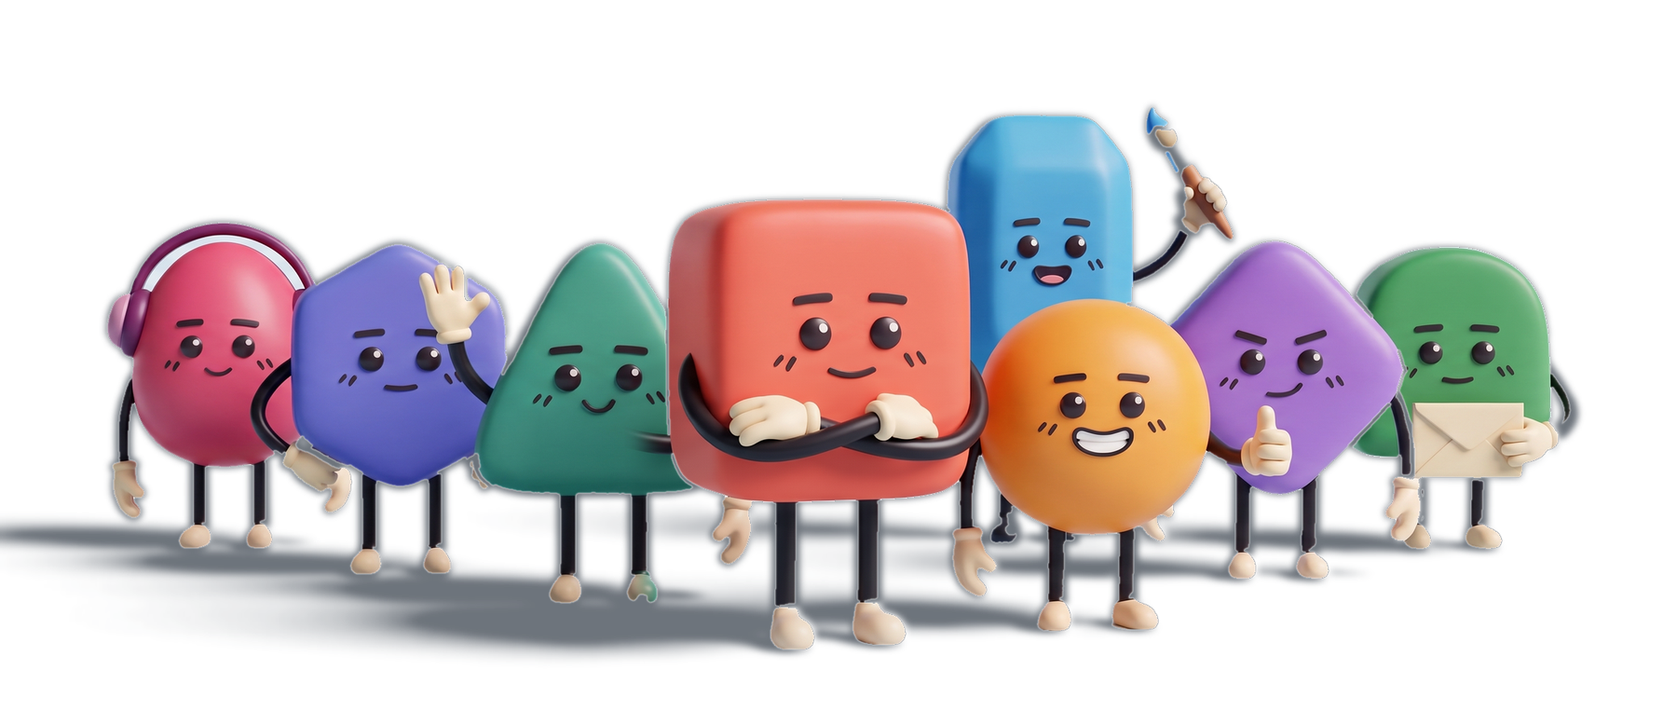
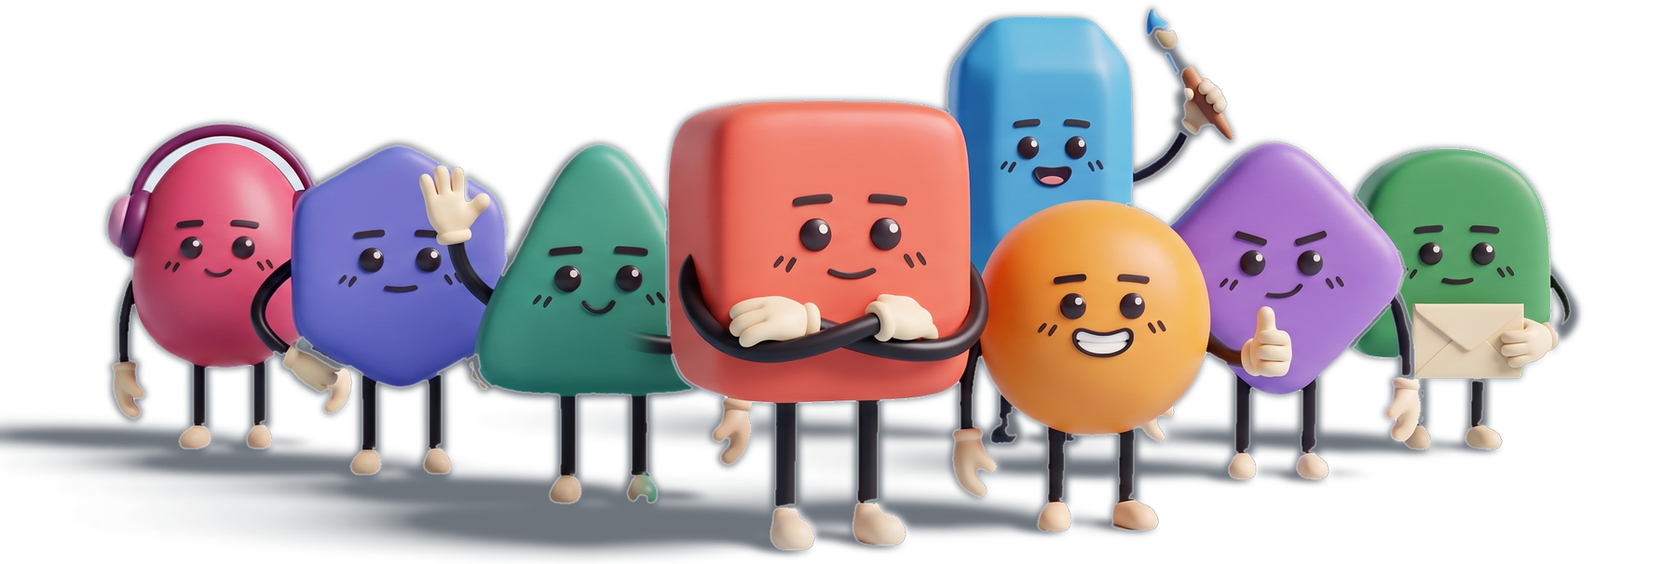
Update Crew Studios: new fonts, layout, idle dimming, name cards, active-room highlight

diff --git a/index.html b/index.html
@@ -3,40 +3,41 @@
 <title>Crew Studios</title>
 <link rel="preconnect" href="https://fonts.googleapis.com">
 <link rel="preconnect" href="https://fonts.gstatic.com" crossorigin>
-<link href="https://fonts.googleapis.com/css2?family=Bricolage+Grotesque:opsz,wght@12..96,600;12..96,800&family=Instrument+Sans:wght@400;500;600&family=JetBrains+Mono:wght@400;500&display=swap" rel="stylesheet">
+<link href="https://fonts.googleapis.com/css2?family=Caprasimo&family=DM+Sans:opsz,wght@9..40,400..700&display=swap" rel="stylesheet">
 <script src="https://cdnjs.cloudflare.com/ajax/libs/three.js/r128/three.min.js"></script>
 <style>
   :root{
     --page:#EEF2F5; --card:#FFFFFF; --line:#D3DCE4; --ink:#16202B; --muted:#5A6774;
     --accent:#1F5FBF; --stamp:rgba(31,95,191,.16); --stamp-ink:#1F5FBF; --tag:#E6ECF2;
-    --display:'Bricolage Grotesque', 'Arial Narrow', system-ui, sans-serif;
-    --sans:'Instrument Sans', system-ui, -apple-system, 'Segoe UI', sans-serif;
-    --mono:'JetBrains Mono', ui-monospace, Menlo, monospace;
+    --display:'Caprasimo', Georgia, 'Times New Roman', serif;   /* bold, big text */
+    --sans:'DM Sans', system-ui, -apple-system, 'Segoe UI', sans-serif;   /* body */
+    --mono:'DM Sans', system-ui, -apple-system, 'Segoe UI', sans-serif;   /* captions and labels */
   }
   [hidden]{ display:none !important; }
+  :root{ font-synthesis-weight:none; }
   body{ margin:0; background:var(--page); color:var(--ink); font-family:var(--sans); }
   .wrap{ max-width:1180px; margin:0 auto; padding-inline:16px; padding-block:28px 64px; }
   @media (min-width:760px){ .wrap{ padding-inline:40px; } }
 
   nav{ display:flex; align-items:center; justify-content:space-between; gap:16px; flex-wrap:wrap; padding-bottom:28px; border-bottom:1px solid var(--line); }
-  .mark{ display:flex; align-items:center; gap:10px; font-family:var(--display); font-weight:800; font-size:19px; letter-spacing:-.01em; }
+  .mark{ display:flex; align-items:center; gap:10px; font-family:var(--display); font-weight:800; font-size:19px; }
   .mark svg{ width:26px; height:26px; }
   nav a{ color:var(--accent); font-size:14px; font-weight:500; text-decoration:none; }
   nav a:hover, nav a:focus-visible{ text-decoration:underline; }
 
   .hero{ display:grid; grid-template-columns:minmax(0,1.6fr) minmax(0,1fr); gap:40px; padding-block:48px 40px; align-items:end; }
   .eyebrow{ font-family:var(--mono); font-size:12px; letter-spacing:.12em; text-transform:uppercase; color:var(--muted); }
-  h1{ font-family:var(--display); font-weight:800; font-size:clamp(34px,5.2vw,60px); line-height:1.02; letter-spacing:-.025em; margin:12px 0 16px; text-wrap:balance; }
+  h1{ font-family:var(--display); font-weight:800; font-size:clamp(34px,5.2vw,60px); line-height:1.02; margin:12px 0 16px; text-wrap:balance; }
   .lede{ font-size:17px; line-height:1.55; color:var(--muted); max-width:56ch; margin:0; }
   .facts{ display:grid; grid-template-columns:repeat(3,1fr); border:1px solid var(--line); border-radius:12px; background:var(--card); }
   .facts div{ padding:16px 14px; display:flex; flex-direction:column; gap:4px; }
   .facts div + div{ border-left:1px solid var(--line); }
-  .facts b{ font-family:var(--display); font-size:30px; font-weight:800; letter-spacing:-.02em; font-variant-numeric:tabular-nums; }
+  .facts b{ font-family:var(--display); font-size:30px; font-weight:800; font-variant-numeric:tabular-nums; }
   .facts span{ font-size:12.5px; color:var(--muted); }
   @media (max-width:820px){ .hero{ grid-template-columns:1fr; gap:28px; padding-block:36px 28px; } }
 
   .team-head{ display:flex; align-items:baseline; justify-content:space-between; gap:16px; flex-wrap:wrap; margin-bottom:18px; }
-  h2{ font-family:var(--display); font-weight:800; font-size:28px; letter-spacing:-.02em; margin:0; }
+  h2{ font-family:var(--display); font-weight:800; font-size:28px; margin:0; }
   .team-head p{ margin:6px 0 0; font-size:14px; color:var(--muted); }
   .team-head{ align-items:flex-end; }
   .viewtoggle{ display:inline-flex; padding:3px; border:1px solid var(--line); border-radius:999px; background:var(--card); }
@@ -60,7 +61,7 @@
   .stamp{ position:absolute; left:-12px; bottom:-12px; width:44px; height:44px; border-radius:50%; border:2px solid var(--stamp-ink); background:var(--stamp); color:var(--stamp-ink); display:flex; align-items:center; justify-content:center; font-family:var(--mono); font-size:11px; font-weight:500; transform:rotate(-14deg); }
   .info{ display:flex; flex-direction:column; gap:6px; min-width:0; }
   .id{ font-family:var(--mono); font-size:11px; letter-spacing:.06em; color:var(--muted); }
-  .info h3{ font-family:var(--display); font-weight:800; font-size:22px; letter-spacing:-.015em; margin:0; line-height:1.1; }
+  .info h3{ font-family:var(--display); font-weight:800; font-size:22px; margin:0; line-height:1.1; }
   .role{ font-size:13.5px; font-weight:600; color:var(--accent); }
   .bio{ font-size:13.5px; line-height:1.5; color:var(--muted); margin:2px 0 0; }
   .tag{ align-self:flex-start; font-family:var(--mono); font-size:10.5px; letter-spacing:.04em; color:var(--muted); background:var(--tag); border-radius:4px; padding:2px 6px; }
@@ -119,7 +120,7 @@
   .info-btn[aria-expanded="true"]{ background:#16202B; color:#FFFFFF; }
   .info-panel{ position:absolute; inset:0; z-index:2; border-radius:14px; background:var(--card);
     padding:28px 30px; display:flex; flex-direction:column; gap:10px; overflow:auto; animation:panelin .18s ease-out; }
-  .info-panel h4{ margin:0; font-family:var(--display); font-weight:800; font-size:22px; letter-spacing:-.015em; padding-right:40px; }
+  .info-panel h4{ margin:0; font-family:var(--display); font-weight:800; font-size:22px; padding-right:40px; }
   .info-panel p{ margin:0; font-size:15px; line-height:1.55; color:var(--muted); }
   @keyframes panelin{ from{ opacity:0; transform:translateY(4px); } to{ opacity:1; transform:none; } }
 
@@ -128,7 +129,7 @@
   .card.is-feature .photo{ width:100%; height:100%; min-height:240px; aspect-ratio:auto; }
   .card.is-feature .photo svg{ position:absolute; inset:5px; width:calc(100% - 10px); height:calc(100% - 10px); background:var(--photo-bg); }
   .card.is-feature .feat-name{ display:flex; flex-direction:column; align-items:center; gap:4px; }
-  .card.is-feature h3{ font-family:var(--display); font-weight:800; font-size:26px; letter-spacing:-.015em; margin:0; text-align:center; }
+  .card.is-feature h3{ font-family:var(--display); font-weight:800; font-size:26px; margin:0; text-align:center; }
 
   /* Segment: idle, breathing easy, arms loose */
   .idleg{ transform-box:fill-box; transform-origin:50% 100%; animation:breathe 3.4s ease-in-out infinite; }
@@ -257,7 +258,7 @@
   @keyframes flIn{ from{ opacity:0; transform:translateX(-24px); } }
   .fl-step{ display:flex; justify-content:space-between; align-items:center; font-family:var(--mono); font-size:11px; letter-spacing:.06em; text-transform:uppercase; color:#C2410C; }
   .fl-dots{ display:inline-flex; gap:4px; } .fl-dots i{ width:18px; height:4px; border-radius:2px; background:#E5E7EB; } .fl-dots i.on{ background:#F06E42; } .fl-dots i.done{ background:#0E2058; }
-  .fl-card h3{ font-family:var(--display); font-weight:800; font-size:19px; letter-spacing:-.01em; margin:6px 0 4px; line-height:1.15; }
+  .fl-card h3{ font-family:var(--display); font-weight:800; font-size:19px; margin:6px 0 4px; line-height:1.15; }
   .fl-sub{ font-size:13px; color:#5A6774; margin:0 0 10px; }
   .fl-units{ margin:0 0 10px; padding-left:22px; font-size:14px; line-height:1.55; }
   .fl-fix{ display:flex; flex-direction:column; gap:4px; margin-bottom:10px; } .fl-fix label{ font-size:12.5px; font-weight:600; }
@@ -302,7 +303,16 @@
   #studios .book-bar{ margin:0; flex-direction:column; align-items:flex-start; gap:6px; }
   #studios .team-head{ margin:0; }
   #studios .team-head h2{ font-size:26px; }
-  #studios .rooms{ margin:0; }
+  .fl-progrow{ display:flex; flex-direction:column; align-items:stretch; gap:8px; margin-top:10px; }
+  .fl-progrow .fl-prog{ margin-top:0; }
+  .fl-now{ display:flex; align-items:center; gap:6px; font-size:13px; color:#5A6774; min-width:0; }
+  .fl-now:empty{ display:none; }
+  .fl-now i{ width:9px; height:9px; border-radius:3px; flex:none; }
+  .fl-now b{ color:#16202B; font-weight:700; }
+  #studios .rooms{ margin:0; display:grid; grid-template-columns:repeat(5, minmax(0, 1fr)); gap:6px; }   /* nine chips in two rows */
+  #studios .rooms button{ justify-content:center; gap:6px; padding:6px 6px; font-size:13px; min-width:0; white-space:nowrap; }
+  #studios .rooms button i{ width:9px; height:9px; flex:none; }
+  .iso-turn{ display:none !important; }   /* rooms are rendered from one angle: no rotation */
   #studios .flow{ position:static; width:auto; overflow:visible; pointer-events:auto; }
   #studios #office{ height:100%; min-height:0; }
   #studios #office-canvas, #studios #office-canvas.overview{ height:100%; min-height:0; aspect-ratio:auto; }
@@ -326,7 +336,7 @@
   .minute-bubble.pop{ animation:bubblePop .35s cubic-bezier(.3,1.6,.5,1) both; }
   @keyframes bubblePop{ from{ transform:translate(-50%, -100%) scale(.4); opacity:0; } to{ transform:translate(-50%, -100%) scale(1); opacity:1; } }
   @media (prefers-reduced-motion: reduce){ .minute-bubble.pop{ animation:none; } }
-  .team-photo{ position:absolute; left:50%; top:41%; transform:translate(-50%, -50%); width:min(100%, calc(100cqh * 2.357)); aspect-ratio:2.357 / 1; }
+  .team-photo{ position:absolute; left:50%; top:41%; transform:translate(-50%, -50%); width:min(100%, calc(100cqh * 2.357)); aspect-ratio:2.97 / 1; }
   .team-photo img{ position:absolute; left:0; top:0; width:100%; height:100%; object-fit:contain; animation:teamIn .8s cubic-bezier(.2,.9,.25,1.1) both; }
   .team-spot{ position:absolute; transform:translateX(-50%); }
   .team-spot .champ-tip{ bottom:100%; }
@@ -336,6 +346,19 @@
   #landing.launch .team-photo img{ animation:teamOut .7s cubic-bezier(.5,0,.75,0) forwards; }
   @keyframes teamOut{ to{ opacity:0; transform:translateY(-14%) scale(.96); } }
   @media (prefers-reduced-motion: reduce){ .team-photo img{ animation:none !important; } }
+  /* ---- landing: bigger headline, crew right under it, upload box tucked under their feet ---- */
+  #landing .land-head{ max-width:1040px; }
+  #landing .land-head h1{ font-size:clamp(32px, min(7vh, 5.6vw), 68px); line-height:1.04; margin:4px 0 8px; }
+  #landing{ padding-bottom:112px; }   /* room for the upload box under the crew */
+  #landing .poster{ flex:none; height:auto; min-height:0; aspect-ratio:2.97 / 1; margin:6px 0 0; container-type:size; }   /* crew always full width */
+  #landing .poster-in{ position:absolute; inset:0; width:auto; transform:none; aspect-ratio:auto; top:0; left:0; }
+  #landing .team-photo{ top:0; transform:translateX(-50%); width:100%; }
+  #landing .upload-zone{ top:calc(100% - 22px); bottom:auto; }   /* just under the crew's feet */
+  @media (max-width:640px){ #landing .upload-zone{ top:calc(100% + 4px); } }
+  #landing{ padding-bottom:0; }
+  body.on-landing .wrap{ padding-top:14px; }
+  body.on-landing nav{ padding-bottom:14px; }
+  #landing .poster{ margin-inline:auto; width:100%; }
   #folio-room{ overflow:hidden; cursor:grab; touch-action:none; }
   #folio-room:active{ cursor:grabbing; }
   #folio-room video{ transform-origin:0 0; will-change:transform; user-select:none; -webkit-user-drag:none; pointer-events:none; }
@@ -389,7 +412,7 @@
     <div class="book-bar"><button type="button" class="linkbtn" id="back-up">&larr; Upload another book</button><span hidden>Working on <b id="book-name"></b></span></div>
     <div class="team-head">
       <div class="th-left">
-        <h2 id="team-title">Where the crew works</h2>
+        <h2 id="team-title">Your book, room by room</h2>
         <p id="view-hint">Listed in pipeline order. Hover a card for a reaction, or tap ⓘ to see what each one does.</p>
       </div>
       <div class="viewtoggle" role="group" aria-label="Choose a view">
@@ -402,7 +425,7 @@
     <aside class="flow" id="flow" hidden aria-live="polite">
       <div class="fl-head" id="flow-head"></div>
       <div id="flow-q"></div>
-      <div class="fl-list" id="flow-list"></div>
+      <div class="fl-list" id="flow-list" hidden></div>
     </aside>
    </div>
     <div id="office" hidden>
@@ -560,7 +583,7 @@
       '<g class="bubble">' +
         '<rect x="6" y="24" width="46" height="18" rx="9" fill="#FFFFFF" stroke="'+I+'" stroke-width="2.2"/>' +
         '<circle cx="46" cy="47" r="2.6" fill="#FFFFFF" stroke="'+I+'" stroke-width="1.8"/>' +
-        '<text x="29" y="36.6" text-anchor="middle" font-family="JetBrains Mono, monospace" font-size="9" font-weight="500" fill="'+I+'">one sec</text>' +
+        '<text x="29" y="36.6" text-anchor="middle" font-family="DM Sans, sans-serif" font-size="9" font-weight="500" fill="'+I+'">one sec</text>' +
       '</g>' +
       '<g class="finger">' +
         '<path class="ink" stroke-width="3.2" d="M 131 172 C 136 150 135 130 129 114 M 120 172 C 124 152 124 132 119 116"/>' +
@@ -657,8 +680,8 @@
       '<rect x="4" y="22" width="84" height="30" rx="10" fill="#FFFFFF" stroke="'+I+'" stroke-width="2.4"/>' +
       '<path d="M 60 51 L 70 60 L 68 51" fill="#FFFFFF" stroke="'+I+'" stroke-width="2.4" stroke-linejoin="round"/>' +
       '<rect x="58" y="49" width="12" height="3" fill="#FFFFFF"/>' +
-      '<text x="46" y="34.5" text-anchor="middle" font-family="JetBrains Mono, monospace" font-size="8.6" font-weight="500" fill="'+I+'">hey! over here</text>' +
-      '<text x="46" y="45" text-anchor="middle" font-family="JetBrains Mono, monospace" font-size="7.4" fill="#5A6774">need your input</text>' +
+      '<text x="46" y="34.5" text-anchor="middle" font-family="DM Sans, sans-serif" font-size="8.6" font-weight="500" fill="'+I+'">hey! over here</text>' +
+      '<text x="46" y="45" text-anchor="middle" font-family="DM Sans, sans-serif" font-size="7.4" fill="#5A6774">need your input</text>' +
     '</g>';
 
     return '<svg viewBox="0 16 140 180" role="img" aria-label="Passport photo of '+a.name+', waving to get your attention">'+
@@ -1004,16 +1027,16 @@
     // the clip's backdrop is cut away with a mask; the plane faces the camera and is sized and offset
     // so the rendered floor diamond sits on this room's square of the campus grid
     var VIDEO_ROOM = {   // all four are built on the same room shell, so their walls match
-      0: { who: "folio", file: "folio-library", size: 20.275, ox: -0.242, oy: 3.467, view: 23, tag: 11.6 },
+      0: { who: "folio", sleeps: true, file: "folio-library", size: 20.275, ox: -0.242, oy: 3.467, view: 23, tag: 11.6 },
       1: { who: "tally", ask: true, file: "tally-room",    size: 20.340, ox: -0.262, oy: 3.365, view: 23, tag: 11.6 },
       2: { who: "verity", file: "verity-room",   size: 20.297, ox: -0.243, oy: 3.365, view: 23, tag: 11.6 },
-      3: { who: "quill", file: "quill-room",    size: 20.297, ox: -0.243, oy: 3.365, view: 23, tag: 11.6 },
-      4: { who: "inky", file: "inky-room",     size: 20.362, ox: -0.243, oy: 3.355, view: 23, tag: 11.6 },
-      5: { who: "hue", file: "hue-room",      size: 20.297, ox: -0.243, oy: 3.327, view: 23, tag: 11.6 },
-      6: { who: "echo", file: "echo-room",     size: 20.340, ox: -0.243, oy: 3.383, view: 23, tag: 11.6 },
-      7: { who: "dash", file: "dash-room",     size: 20.319, ox: -0.112, oy: 3.374, view: 23, tag: 11.6 }
+      3: { who: "quill", sleeps: true, file: "quill-room",    size: 20.297, ox: -0.243, oy: 3.365, view: 23, tag: 11.6 },
+      4: { who: "inky", sleeps: true, file: "inky-room",     size: 20.362, ox: -0.243, oy: 3.355, view: 23, tag: 11.6 },
+      5: { who: "hue", sleeps: true, file: "hue-room",      size: 20.297, ox: -0.243, oy: 3.327, view: 23, tag: 11.6 },
+      6: { who: "echo", sleeps: true, file: "echo-room",     size: 20.340, ox: -0.243, oy: 3.383, view: 23, tag: 11.6 },
+      7: { who: "dash", sleeps: true, file: "dash-room",     size: 20.319, ox: -0.112, oy: 3.374, view: 23, tag: 11.6 }
     };
-    var OVERVIEW_SCALE = 1;   // rendered rooms have tall walls; drawn a little smaller in the overview so they hide less of the room behind
+    var OVERVIEW_SCALE = 1, ACTIVE_SCALE = 1.15;   // rendered rooms have tall walls; drawn a little smaller in the overview so they hide less of the room behind
     var minuteUntil = {};   // room index -> time the "give me a minute" pose ends
     function videoRoom(V, idx){
       var loader = new THREE.TextureLoader();
@@ -1030,14 +1053,17 @@
       S.minute = { still: loader.load(V.who + "-minute.jpg"), alpha: S.work.alpha };
       var m = new THREE.MeshBasicMaterial({ map: S.idle.poster, alphaMap: S.idle.alpha, transparent: true, depthWrite: false });
       var plane = new THREE.Mesh(new THREE.PlaneGeometry(V.size, V.size), m); scene.add(plane);
-      var right = new THREE.Vector3(), up = new THREE.Vector3(), sc = OVERVIEW_SCALE;
+      var right = new THREE.Vector3(), up = new THREE.Vector3(), sc = OVERVIEW_SCALE, lit = 1;
+      var SLEEP_DIM = 0.65;   // idle rooms (asleep or tapping) are darker: lights low, not off
       function play(c, on){
         if (!on){ if (!c.vid.paused) c.vid.pause(); return; }
         if (c.vid.paused && !c.pending){ c.pending = true; var pr = c.vid.play(); if (pr && pr.then) pr.then(function(){ c.pending = false; }, function(){ c.pending = false; }); else c.pending = false; }
       }
       return function(t, reduce){
-        sc += ((focused === idx ? 1 : OVERVIEW_SCALE) - sc) * 0.12;   // scaled about the floor centre
-        plane.scale.setScalar(sc);
+        // the working room steps forward a little in the overview: slightly bigger and drawn over its neighbours
+        var busy = focused < 0 && (active === idx || tagState[idx] === "ask");   // working, or waiting on you
+        sc += ((focused === idx ? 1 : busy ? ACTIVE_SCALE : OVERVIEW_SCALE) - sc) * (reduce ? 1 : 0.1);   // scaled about the floor centre
+        plane.scale.setScalar(sc); plane.renderOrder = busy ? 5 : 0;
         plane.quaternion.copy(camera.quaternion);
         right.set(1, 0, 0).applyQuaternion(camera.quaternion); up.set(0, 1, 0).applyQuaternion(camera.quaternion);
         plane.position.set(0, 0, 0).addScaledVector(right, V.ox * sc).addScaledVector(up, V.oy * sc);
@@ -1047,6 +1073,8 @@
         var map = state === "minute" ? S.minute.still : (S[state].ready && !reduce ? S[state].vtex : S[state].poster);
         var alpha = state === "minute" ? S.minute.alpha : S[state].alpha;
         if (m.map !== map || m.alphaMap !== alpha){ m.map = map; m.alphaMap = alpha; m.needsUpdate = true; }
+        var litGoal = state === "idle" ? SLEEP_DIM : 1;
+        lit = reduce ? litGoal : lit + (litGoal - lit) * 0.05; m.color.setScalar(lit);
       };
     }
     function roomA(){ return videoRoom(VIDEO_ROOM[0], 0); }   // Folio's library
@@ -1124,22 +1152,24 @@
     }
     // status pill on each name card: who is working, who is done, who is next
     var PILL = { work: ["Working\u2026", null, "#FFFFFF"], done: ["Done \u2713", "#E3F6E8", "#21824A"], next: ["Up next", "#E9EEF3", "#5A6774"], ask: ["Needs you", "#FEF0EA", "#C2410C"] };
+    // compact name card: colour chip + name, the role under it, then the status pill
     function nameTex(a, st){
-      return canvasTex(640, 340, function(g, W, H){
+      return canvasTex(520, 270, function(g, W, H){
         g.clearRect(0, 0, W, H);
-        var cardH = st ? H - 12 : 248;
-        g.fillStyle = "rgba(255,255,255,.95)"; g.beginPath(); if (g.roundRect) g.roundRect(6, H - 6 - cardH, W - 12, cardH, 48); else g.rect(6, H - 6 - cardH, W - 12, cardH); g.fill();
-        g.save(); g.translate(0, H - 6 - cardH - 6);
-        g.fillStyle = a.color; g.beginPath(); if (g.roundRect) g.roundRect(40, 46, 70, 70, 16); else g.rect(40, 46, 70, 70); g.fill();
-        g.fillStyle = "#16202B"; g.font = "800 88px 'Bricolage Grotesque', sans-serif"; g.fillText(a.name, 132, 112);
-        g.fillStyle = "#5A6774"; g.font = "500 40px 'JetBrains Mono', monospace"; g.fillText(a.role, 44, 204);
-        if (st && PILL[st]){
-          var pl = PILL[st]; g.font = "700 54px 'Instrument Sans', sans-serif";
-          var pw = g.measureText(pl[0]).width + 64;
-          g.fillStyle = pl[1] || a.color; g.beginPath(); if (g.roundRect) g.roundRect(40, 226, pw, 84, 42); else g.rect(40, 226, pw, 84); g.fill();
-          g.fillStyle = pl[2]; g.fillText(pl[0], 72, 287);
+        var NAME = "400 66px 'Caprasimo', Georgia, serif", ROLE = "500 40px 'DM Sans', sans-serif", PIL = "700 46px 'DM Sans', sans-serif";
+        g.font = NAME; var nw = g.measureText(a.name).width + 66;
+        g.font = ROLE; var rw = g.measureText(a.role).width;
+        var pl = st && PILL[st]; g.font = PIL; var pw = pl ? g.measureText(pl[0]).width + 48 : 0;
+        var cw = Math.min(W - 8, Math.max(nw, rw, pw) + 52), ch = pl ? 254 : 168, x0 = (W - cw) / 2, y0 = H - 4 - ch;
+        g.fillStyle = "rgba(255,255,255,.96)"; g.beginPath(); if (g.roundRect) g.roundRect(x0, y0, cw, ch, 36); else g.rect(x0, y0, cw, ch); g.fill();
+        g.fillStyle = a.color; g.beginPath(); if (g.roundRect) g.roundRect(x0 + 26, y0 + 30, 42, 42, 11); else g.rect(x0 + 26, y0 + 30, 42, 42); g.fill();
+        g.fillStyle = "#16202B"; g.font = NAME; g.fillText(a.name, x0 + 82, y0 + 74);
+        g.fillStyle = "#5A6774"; g.font = ROLE; g.fillText(a.role, x0 + 26, y0 + 130);
+        if (pl){
+          g.font = PIL;
+          g.fillStyle = pl[1] || a.color; g.beginPath(); if (g.roundRect) g.roundRect(x0 + 26, y0 + 160, pw, 64, 32); else g.rect(x0 + 26, y0 + 160, pw, 64); g.fill();
+          g.fillStyle = pl[2]; g.fillText(pl[0], x0 + 50, y0 + 207);
         }
-        g.restore();
       });
     }
     ROOMS.forEach(function(build, i){
@@ -1150,7 +1180,7 @@
       // name printed flat in the piece's front-left corner, reading straight across the screen
       // name card standing on the piece's front-left corner (clear of the room), always facing the viewer
       var tag = new THREE.Sprite(new THREE.SpriteMaterial({ map: nameTex(CREW[i]), depthTest: false })); tag.renderOrder = 10;   // never hidden behind the next row's walls
-      tag.center.set(0.5, 0); tag.scale.set(7.8, 4.14, 1); tag.position.set(0, VIDEO_ROOM[i] ? VIDEO_ROOM[i].tag : 7.6, 0.2); g.add(tag); tags.push(tag);   // floats over the agent's head, inside its own room
+      tag.center.set(0.5, 0); tag.scale.set(6.0, 3.12, 1); tag.position.set(0, VIDEO_ROOM[i] ? VIDEO_ROOM[i].tag : 7.6, 0.2); g.add(tag); tags.push(tag);   // floats over the agent's head, inside its own room
       var glowTex = canvasTex(256, 256, function(c, W){ var gr = c.createRadialGradient(W / 2, W / 2, 0, W / 2, W / 2, W / 2);
         gr.addColorStop(0, CREW[i].color + "DD"); gr.addColorStop(0.55, CREW[i].color + "66"); gr.addColorStop(1, CREW[i].color + "00"); c.fillStyle = gr; c.fillRect(0, 0, W, W); });
       var glow = new THREE.Sprite(new THREE.SpriteMaterial({ map: glowTex, transparent: true, depthWrite: false, opacity: 0 })); glow.scale.set(30, 30, 1); g.add(glow); glows.push(glow);
@@ -1350,6 +1380,11 @@
       for (var k = 0; k < updates.length; k++){
         var on = active === -2 || active === k || focused === k;
         updates[k](t, reduce);                   // each room shows its own working / idle / minute state
+        // its name card grows with the room when the room steps forward
+        var tg = tags[k], tgGoal = focused < 0 && (active === k || tagState[k] === "ask") ? ACTIVE_SCALE : 1;
+        if (tg.userData.base == null){ tg.userData.base = tg.position.y; tg.userData.f = 1; }
+        tg.userData.f = reduce ? tgGoal : tg.userData.f + (tgGoal - tg.userData.f) * 0.1;
+        tg.scale.set(6.0 * tg.userData.f, 3.12 * tg.userData.f, 1); tg.position.y = tg.userData.base * tg.userData.f;
         var gl = glows[k], gGoal = (active === k || tagState[k] === "ask") ? 0.75 + (reduce ? 0 : Math.sin(t * 2.4) * 0.25) : 0;
         gl.material.opacity += (gGoal - gl.material.opacity) * 0.1;
         if (gl.material.opacity > 0.01){ var V = VIDEO_ROOM[k] || { ox: 0, oy: 3.4 };   // sits just behind the room, centred on it
@@ -1363,6 +1398,7 @@
     window.addEventListener("resize", function(){ if (focused < 0) overviewGoal(); });
     return { resize: function(){ resize(); if (focused < 0) overviewGoal(); }, turn: function(dir){ if (focused >= 0 && !VIDEO_ROOM[focused]) azGoal += dir * Math.PI / 2; }, isVideo: function(i){ return !!VIDEO_ROOM[i]; }, focus: focus, onPick: function(fn){ onPick = fn; },
              setActive: setActive,
+             redrawTags: function(){ CREW.forEach(function(a, i){ tags[i].material.map = nameTex(a, tagState[i]); tags[i].material.needsUpdate = true; }); },
              setStatus: function(arr){ CREW.forEach(function(a, i){ var st = arr ? arr[i] : null; if (tagState[i] === st) return; tagState[i] = st;
                tags[i].material.map = nameTex(a, st); tags[i].material.needsUpdate = true; }); },
              setInset: function(px){ inset = px; if (focused < 0) overviewGoal(); } };
@@ -1399,7 +1435,14 @@
     }
     function head(){
       var chips = A.answered ? '<div class="fl-chips"><span>' + lessons() + ' lessons a year</span><span>' + A.tt.minutes + ' min</span><span>' + LEVELS.filter(function(l){ return l[0] === A.level; })[0][1] + '</span></div>' : "";
-      headEl.innerHTML = '<div class="fl-book"><span>Your book</span><b>' + esc(book) + '</b></div>' + chips + '<div class="fl-prog"><i id="flow-bar"></i></div>';
+      // who has the book right now, shown beside the progress bar
+      var w = status.indexOf("work"), k = status.indexOf("ask"), now;
+      if (w >= 0) now = '<i style="background:' + CREW[w].color + '"></i><b>' + esc(CREW[w].name) + '</b> ' + esc(VERB[w].charAt(0).toLowerCase() + VERB[w].slice(1)) + '\u2026';
+      else if (k >= 0) now = '<i style="background:' + CREW[k].color + '"></i><b>' + esc(CREW[k].name) + '</b> needs you';
+      else if (status.every(function(x){ return x === "done"; })) now = '<i style="background:#21C45D"></i><b>All done</b>';
+      else now = "";
+      headEl.innerHTML = '<div class="fl-book"><span>Your book</span><b>' + esc(book) + '</b></div>' + chips +
+        '<div class="fl-progrow"><div class="fl-prog"><i id="flow-bar"></i></div><span class="fl-now">' + now + '</span></div>';
     }
     function card(n, title, body){
       qEl.innerHTML = ""; var c = el("div", "fl-card", '<div class="fl-step">Question ' + n + ' of 3 <span class="fl-dots">' + [1, 2, 3].map(function(k){ return '<i class="' + (k < n ? "done" : k === n ? "on" : "") + '"></i>'; }).join("") + '</span></div><h3>' + title + '</h3>');
@@ -1531,7 +1574,7 @@
     }
     // the crew as rendered characters: one team photo, with a hover name tip over each of them
     // where each character stands in the group photo (centre x, top, width, height, in % of the photo), in CREW order
-    var TEAM_SPOT = [[48.8, 28, 16, 44], [33.8, 34, 11, 34], [23.8, 34, 11, 34], [65.4, 42, 12, 33], [76.7, 34, 12, 34], [62.1, 16, 10, 26], [12.5, 31, 10, 36], [86.7, 34, 11, 34]];
+    var TEAM_SPOT = [[48.8, 17.8, 16, 55.4],  [33.8, 25.3, 11, 42.8],  [23.8, 25.3, 11, 42.8],  [65.4, 35.4, 12, 41.5],  [76.7, 25.3, 12, 42.8],  [62.1, 2.7, 10, 32.7],  [12.5, 21.5, 10, 45.3],  [86.7, 25.3, 11, 42.8]];
     var photo = document.createElement("div"); photo.className = "team-photo";
     photo.innerHTML = '<img src="crew-team.png" alt="The curriculum crew posed as a group: Folio in front with arms crossed, Quill beside him, and Tally, Verity, Hue, Inky, Echo and Dash gathered behind">';
     CREW.forEach(function(a, i){
@@ -1551,7 +1594,11 @@
       if (office) office.resize();
     }
     window.addEventListener("resize", fitStudios);
-    function fit(){ document.body.classList.toggle("on-landing", !landing.hidden); if (landing.hidden) return; var top = landing.getBoundingClientRect().top + window.scrollY; landing.style.height = Math.max(420, window.innerHeight - top) + "px"; }
+    function fit(){ document.body.classList.toggle("on-landing", !landing.hidden); if (landing.hidden) return;
+      // the crew is as wide as the page unless the window is too short; then it shrinks just enough that nothing scrolls
+      var poster = landing.querySelector(".poster"), head = landing.querySelector(".land-head");
+      var avail = window.innerHeight - head.getBoundingClientRect().bottom - 6 - 118;   // 118 = upload box + sample link under the crew
+      poster.style.maxWidth = Math.max(240, avail * 2.97) + "px"; var top = landing.getBoundingClientRect().top + window.scrollY; landing.style.height = Math.max(420, window.innerHeight - top) + "px"; }
     window.addEventListener("resize", fit); fit(); document.fonts && document.fonts.ready.then(fit);
 
     // ---- upload ----
@@ -1592,7 +1639,7 @@
     "Dash’s mailroom: every finished lesson is sealed in an envelope and posted out to teachers on WhatsApp."
   ];
   var roomsEl = document.getElementById("rooms"), tabs = [];
-  var allB = document.createElement("button"); allB.type = "button"; allB.setAttribute("role", "tab"); allB.textContent = "All rooms";
+  var allB = document.createElement("button"); allB.type = "button"; allB.setAttribute("role", "tab"); allB.textContent = "All"; allB.setAttribute("aria-label", "All rooms");
   allB.addEventListener("click", function(){ pick(-1); }); roomsEl.appendChild(allB);
   CREW.forEach(function(a, i){
     var b = document.createElement("button"); b.type = "button"; b.setAttribute("role", "tab");
@@ -1628,13 +1675,15 @@
     officeEl.classList.toggle("no-turn", vroom);
     allB.setAttribute("aria-selected", String(i < 0));
     tabs.forEach(function(b, k){ b.setAttribute("aria-selected", String(k === i)); });
-    hintEl.textContent = i < 0 ? "Eight rooms joined wall to wall, in pipeline order from left to right and top to bottom: each agent hands its work to the next. Click a room (or a tab) to step inside." : CAPTION[i];
+    hintEl.textContent = i < 0 ? "The glowing room is working on your book now. Click any room to look inside." : CAPTION[i];
     document.querySelector(".office-hint").textContent = i < 0 ? "click a room to step inside \u00b7 drag to move \u00b7 scroll to zoom"
       : vroom ? "drag to move \u00b7 scroll to zoom \u00b7 click the room again or outside it for All rooms"
-      : "drag to move \u00b7 \u21ba \u21bb or shift-drag to turn \u00b7 scroll to zoom \u00b7 click the room again or outside it for All rooms";
+      : "drag to move \u00b7 scroll to zoom \u00b7 click the room again or outside it for All rooms";
     if (office) office.focus(i);
   }
   if (office) office.onPick(pick);
+  if (document.fonts && document.fonts.load) Promise.all([document.fonts.load("84px Caprasimo"), document.fonts.load("500 42px 'DM Sans'"), document.fonts.load("700 54px 'DM Sans'")])
+    .then(function(){ if (office) office.redrawTags(); }, function(){});
   pick(-1);
 })();
 </script>
